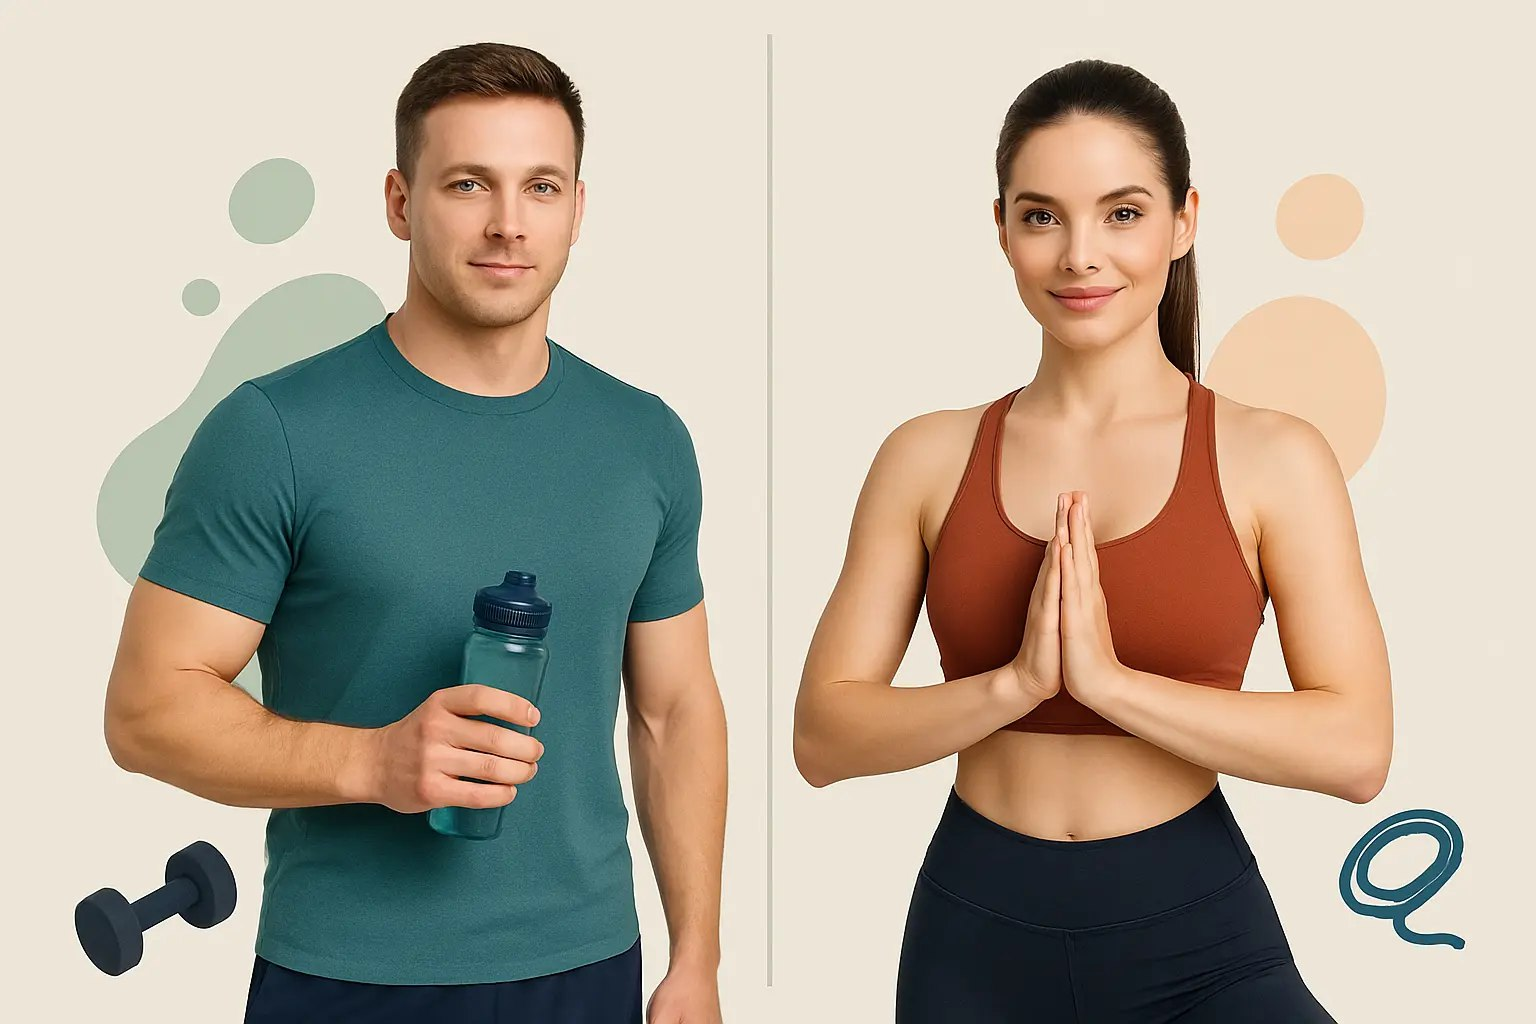
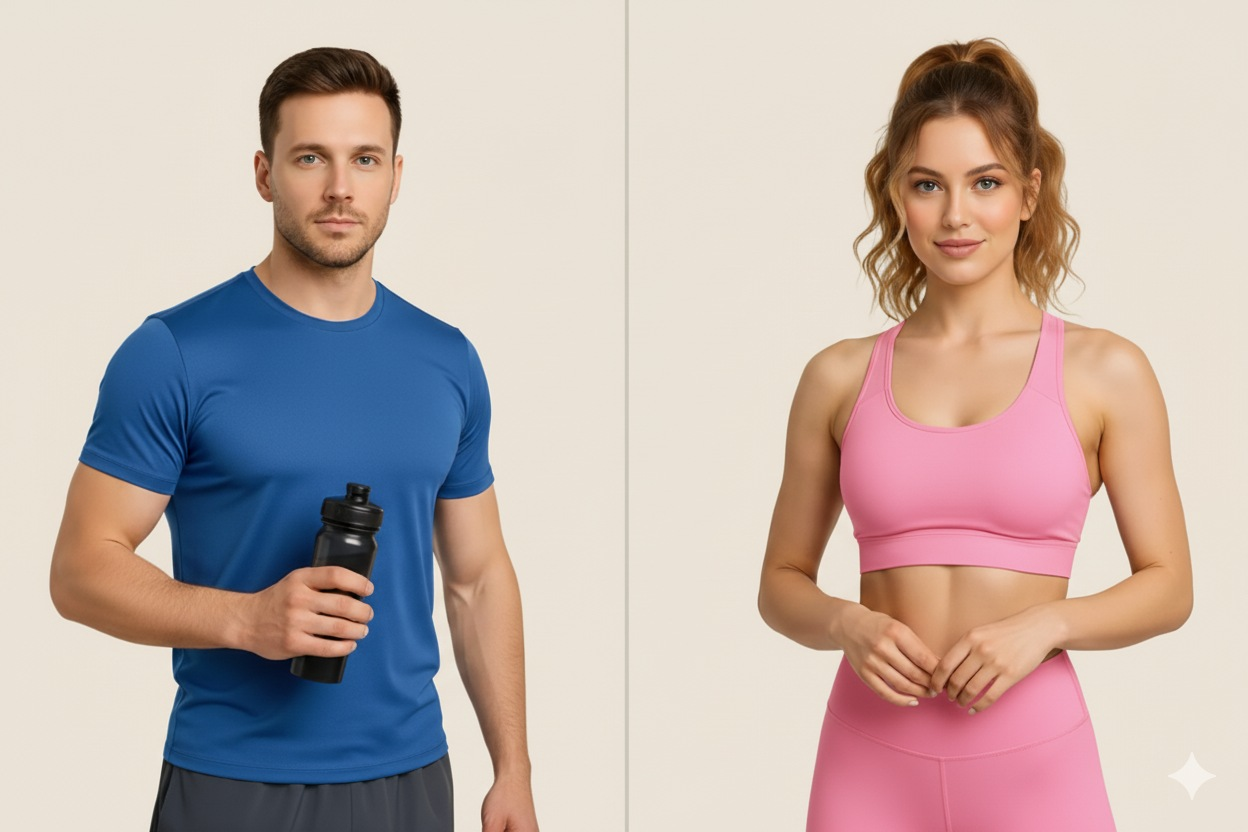
админ в базе

diff --git a/bot/services/users.py b/bot/services/users.py
@@ -96,6 +96,8 @@ async def set_is_admin(session: AsyncSession, user_id: int, is_admin: bool) -> N
 
     await session.execute(stmt)
     await session.commit()
+    # Invalidate cached admin flag so changes are visible immediately
+    await clear_cache(is_admin, user_id)
 
 
 @cached(key_builder=lambda session: build_key())
